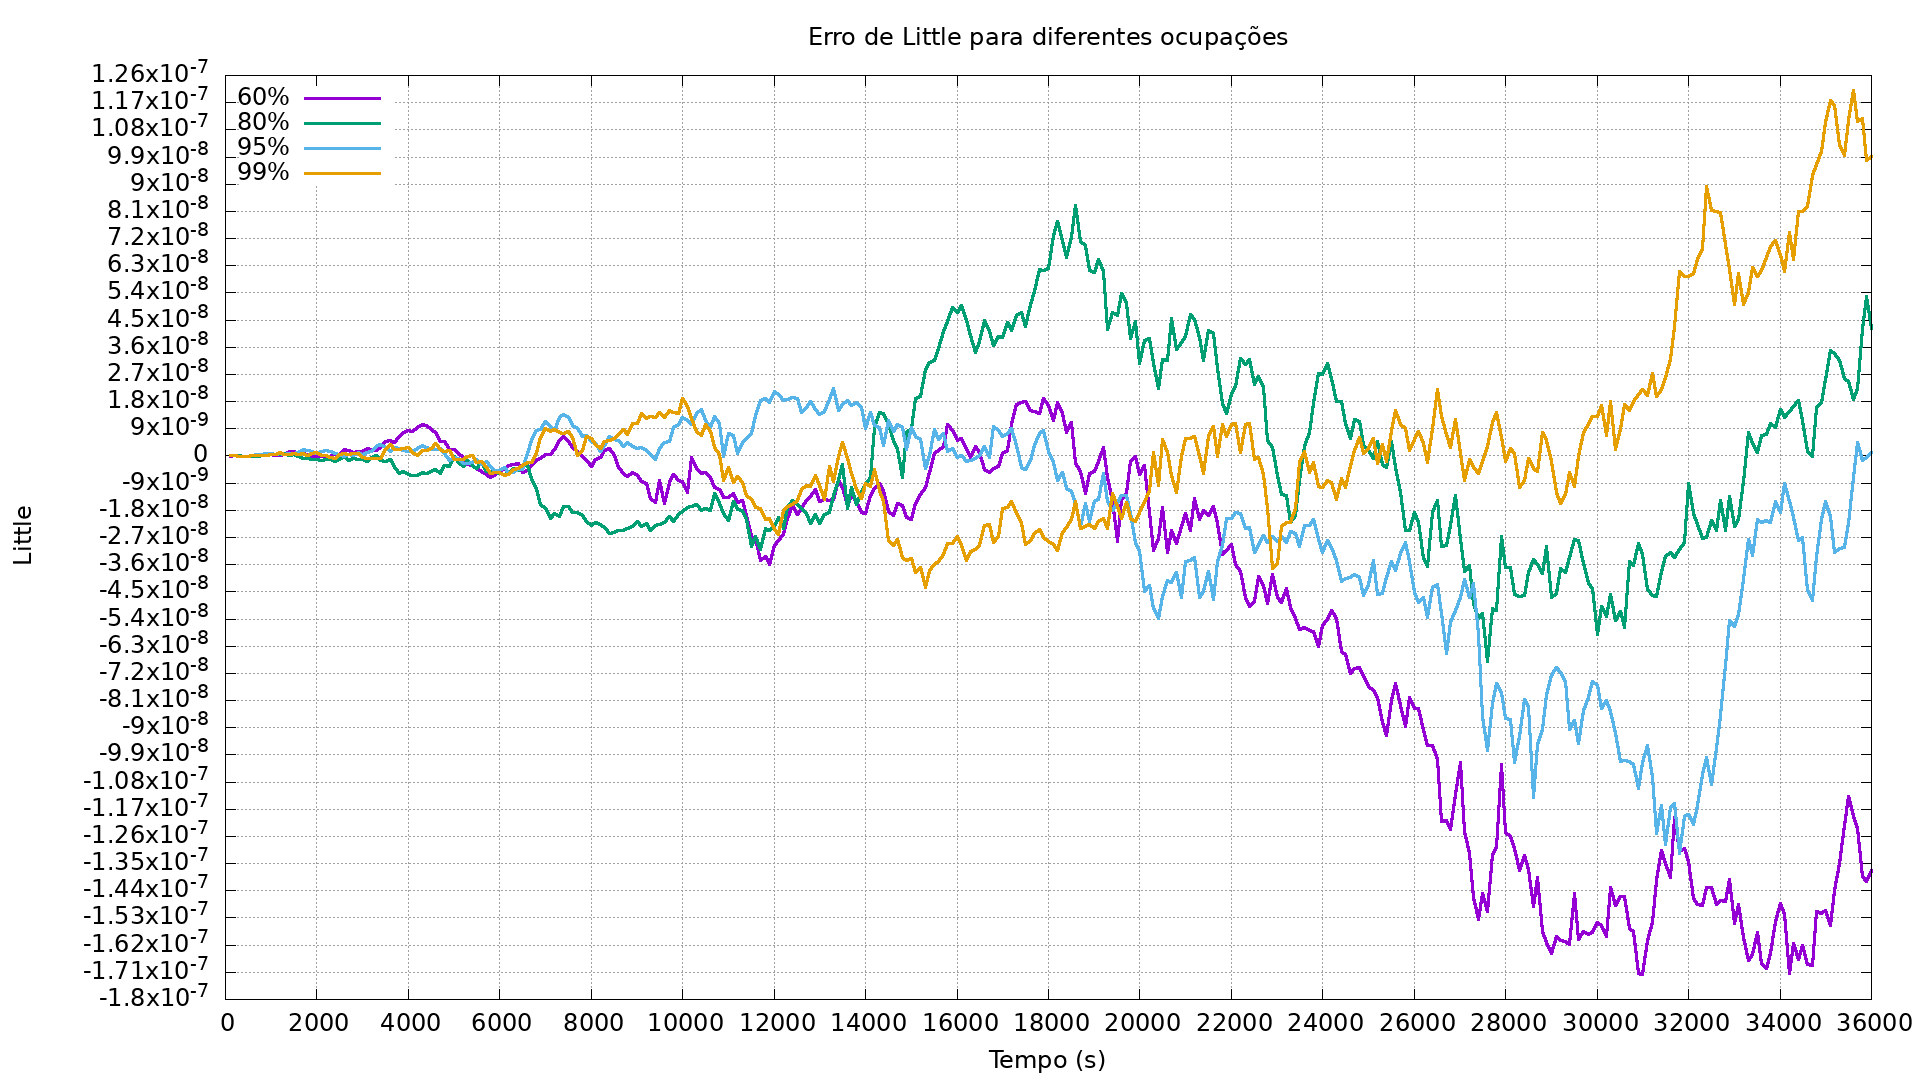
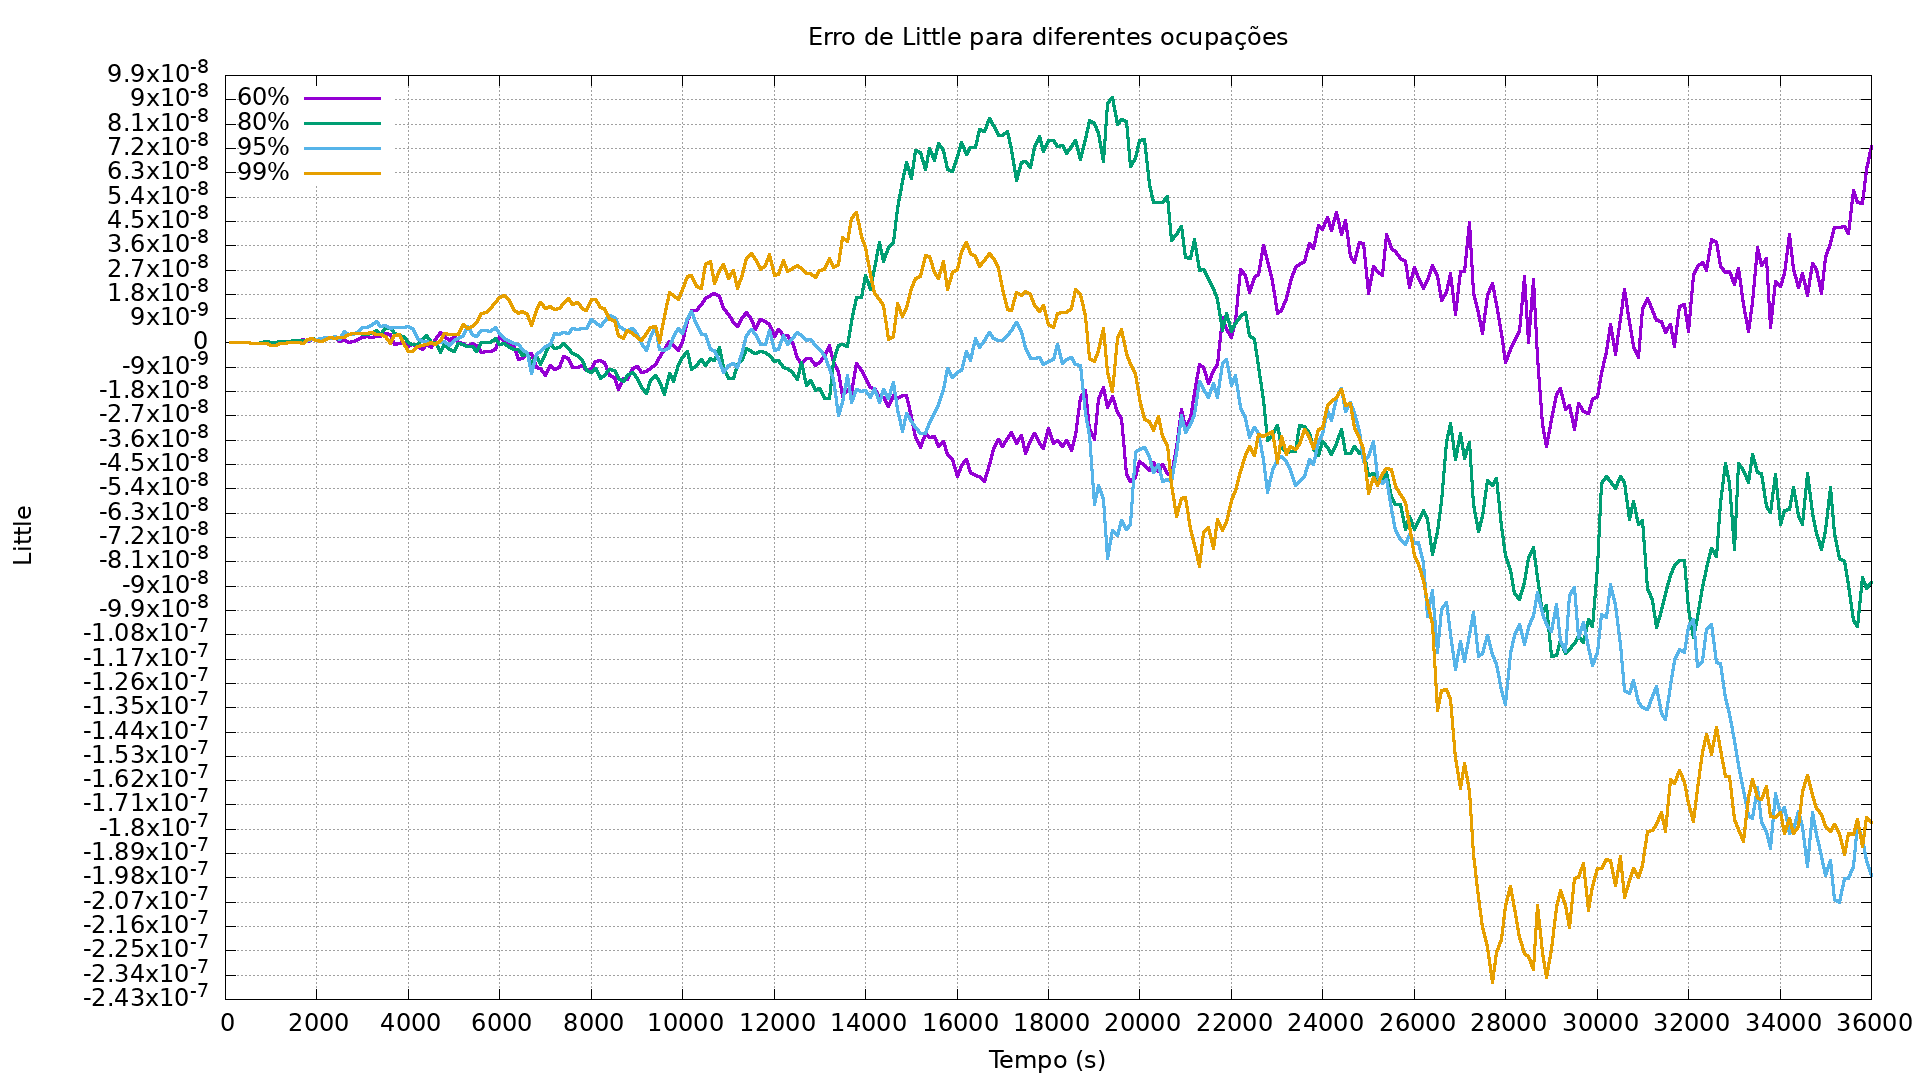
refactor: printando gráficos

diff --git a/Simulador 2 - Parte 2/simulacao.c b/Simulador 2 - Parte 2/simulacao.c
@@ -155,7 +155,7 @@ unsigned long int gera_inicio_chamada_v2()
 
 void gera_chamadas(chamada *g)
 {
-    for (int i = 1; i < TEMPO_SIMULACAO; i++)
+    for (int i = 1; i < 2110; i++)
     {
         g->tempo_inicio[i] = g->tempo_inicio[i - 1] + 0.02 + gera_inicio_chamada_v2();
         g->duracao[i] = (60 * log(aleatorio())) * -1;
@@ -268,7 +268,6 @@ void resolve(float percentual_calculado, grafico *grafico, chamada *chamada)
          * Um caso a mais deve ser tratando dentro da cadeia de ifs (coleta)
          */
         tempo_decorrido = !fila ? minimo(chegada, coleta) : minimo(minimo(chegada, coleta), servico);
-
         // Se chegou
         if (tempo_decorrido == chegada)
         {
@@ -279,30 +278,30 @@ void resolve(float percentual_calculado, grafico *grafico, chamada *chamada)
                 // EDIT: calculo do atraso de transmissão
                 if (percentual_calculado == (float)0.006000)
                 {
-                    //printf("%f\n", calcula_chamada(tempo_decorrido, chamada));
-                    atraso_transmissao = L  + calcula_chamada(tempo_decorrido, chamada) / new_link[0];
+                    // printf("%f\n", calcula_chamada(tempo_decorrido, chamada));
+                    atraso_transmissao = L + calcula_chamada(tempo_decorrido, chamada) / new_link[0];
                     // seria  atraso_transmissao = L + ligacoes/ link[0]; //ligações sendo o retorno da função que traz qts bytes de ligação no tempo_decorrido atual
                 }
                 else if (percentual_calculado == (float)0.008000)
                 {
-                    //printf("%f\n", calcula_chamada(tempo_decorrido, chamada));
+                    // printf("%f\n", calcula_chamada(tempo_decorrido, chamada));
 
                     // seria  atraso_transmissao = L + ligacoes/ link[0]; //ligações sendo o retorno da função que traz qts bytes de ligação no tempo_decorrido atual
                     atraso_transmissao = L + calcula_chamada(tempo_decorrido, chamada) / new_link[1];
                 }
                 else if (percentual_calculado == (float)0.009500)
                 {
-                    //printf("%f\n", calcula_chamada(tempo_decorrido, chamada));
+                    // printf("%f\n", calcula_chamada(tempo_decorrido, chamada));
 
                     // seria  atraso_transmissao = L + ligacoes/ link[0]; //ligações sendo o retorno da função que traz qts bytes de ligação no tempo_decorrido atual
-                    atraso_transmissao = L / new_link[2];
+                    atraso_transmissao = L + calcula_chamada(tempo_decorrido, chamada) / new_link[2];
                 }
                 else if (percentual_calculado == (float)0.009900)
                 {
-                    //printf("%f\n", calcula_chamada(tempo_decorrido, chamada));
+                    // printf("%f\n", calcula_chamada(tempo_decorrido, chamada));
 
                     // seria  atraso_transmissao = L + ligacoes/ link[0]; //ligações sendo o retorno da função que traz qts bytes de ligação no tempo_decorrido atual
-                    atraso_transmissao = L / new_link[3];
+                    atraso_transmissao = L + calcula_chamada(tempo_decorrido, chamada) / new_link[3];
                 }
 
                 //  printf("atraso: %.20f", atraso_transmissao);
@@ -339,31 +338,31 @@ void resolve(float percentual_calculado, grafico *grafico, chamada *chamada)
                 // EDIT: calculo do atraso de transmissão
                 if (percentual_calculado == (float)0.006000)
                 {
-                    //printf("%f\n", calcula_chamada(tempo_decorrido, chamada));
+                    // printf("%f\n", calcula_chamada(tempo_decorrido, chamada));
 
-                    atraso_transmissao = L / new_link[0];
+                    atraso_transmissao = L + calcula_chamada(tempo_decorrido, chamada) / new_link[0];
                     // seria  atraso_transmissao = L + ligacoes/ link[0]; //ligações sendo o retorno da função que traz qts bytes de ligação no tempo_decorrido atual
                 }
                 else if (percentual_calculado == (float)0.008000)
                 {
-                    //printf("%f\n", calcula_chamada(tempo_decorrido, chamada));
+                    // printf("%f\n", calcula_chamada(tempo_decorrido, chamada));
 
                     // seria  atraso_transmissao = L + ligacoes/ link[0]; //ligações sendo o retorno da função que traz qts bytes de ligação no tempo_decorrido atual
-                    atraso_transmissao = L / new_link[1];
+                    atraso_transmissao = L + calcula_chamada(tempo_decorrido, chamada) / new_link[1];
                 }
                 else if (percentual_calculado == (float)0.009500)
                 {
-                    //printf("%f\n", calcula_chamada(tempo_decorrido, chamada));
+                    // printf("%f\n", calcula_chamada(tempo_decorrido, chamada));
 
                     // seria  atraso_transmissao = L + ligacoes/ link[0]; //ligações sendo o retorno da função que traz qts bytes de ligação no tempo_decorrido atual
-                    atraso_transmissao = L / new_link[2];
+                    atraso_transmissao = L + calcula_chamada(tempo_decorrido, chamada) / new_link[2];
                 }
                 else if (percentual_calculado == (float)0.009900)
                 {
-                    //printf("%f\n", calcula_chamada(tempo_decorrido, chamada));
+                    // printf("%f\n", calcula_chamada(tempo_decorrido, chamada));
 
                     // seria  atraso_transmissao = L + ligacoes/ link[0]; //ligações sendo o retorno da função que traz qts bytes de ligação no tempo_decorrido atual
-                    atraso_transmissao = L / new_link[3];
+                    atraso_transmissao = L + calcula_chamada(tempo_decorrido, chamada) / new_link[3];
                 }
                 // printf("atraso: %.20f", atraso_transmissao);
                 servico = tempo_decorrido + atraso_transmissao;
@@ -547,14 +546,14 @@ void main()
      * Iniciamos as structs do array de gráficos e a enviamos por referência para "resolve"
      * A função "resolve" irá preencher os dados de cada gráfico
      */
-    for (int i = 0; i < 1; i++)
+    for (int i = 0; i < 4; i++)
     {
         inicia_grafico(&graficos[i]);
         resolve(taxas[i], &graficos[i], &chamada);
     }
 
-    // cria_grafico(graficos, "Tempo médio de fila para diferentes ocupações", "E[N]", "Tempo (s)", 2000, 10, "E[N]", "left top");
-    // cria_grafico(graficos, "Tempo médio de espera para diferentes ocupações", "E[W]", "Tempo (s)", 2000, 0.1, "E[W]", "left top");
-    // cria_grafico(graficos, "Ocupações conforme o tempo", "Ocupacao", "Tempo (s)", 2000, 0.025, "Ocupacao", "right bot");
-    // cria_grafico(graficos, "Erro de Little para diferentes ocupações", "Little", "Tempo (s)", 2000, 0.0000000090, "Little", "left top");
+    cria_grafico(graficos, "Tempo médio de fila para diferentes ocupações", "E[N]", "Tempo (s)", 2000, 10, "E[N]", "left top");
+    cria_grafico(graficos, "Tempo médio de espera para diferentes ocupações", "E[W]", "Tempo (s)", 2000, 0.1, "E[W]", "left top");
+    cria_grafico(graficos, "Ocupações conforme o tempo", "Ocupacao", "Tempo (s)", 2000, 0.025, "Ocupacao", "right bot");
+    cria_grafico(graficos, "Erro de Little para diferentes ocupações", "Little", "Tempo (s)", 2000, 0.0000000090, "Little", "left top");
 }
